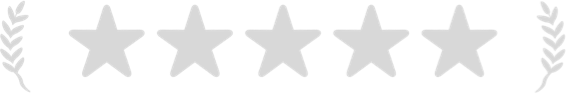
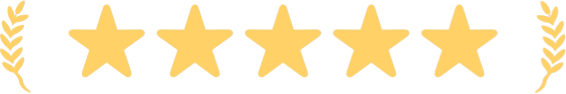
revamped landing page- copy adjustments

diff --git a/index.html b/index.html
@@ -3,14 +3,18 @@
 <head>
   <meta charset="UTF-8">
   <meta name="viewport" content="width=device-width, initial-scale=1.0">
-  <meta name="description" content="Visor: The best parental control app for YouTube. Approve channels, manage profiles, and create a safe, worry-free viewing experience for your family.">
-  <meta name="keywords" content="parent-approved YouTube channels, parental control app, YouTube parental controls, family-friendly YouTube, safe YouTube viewing, kids YouTube, manage YouTube channels, approve channels, YouTube app for parents">
+
+  <meta name="description" content="Visor makes YouTube kid-safe: your kids only see channels you approve. No Shorts, no comments, no algorithm surprises—just content you trust." />
+  <meta name="keywords" content="YouTube approved channels, YouTube for kids, parent approved YouTube, YouTube parental controls, safe YouTube app, only approved content, kids YouTube app, family YouTube app, watch approved channels only, block YouTube channels">
+  <meta property="og:title" content="Visor – YouTube, Filtered by You" />
+  <meta property="og:description" content="Create a safe YouTube experience. Approve channels, filter content, and let your kids explore only what you trust." />
+  <title>Visor | YouTube Approved Channels Only – Safe for Kids</title>
   <meta name="author" content="Visor App">
-  <!-- <meta name="apple-itunes-app" content="app-id=6744246412"> -->
+  <meta name="apple-itunes-app" content="app-id=6744246412">
   <!-- X Tags -->
+  <meta name="twitter:title" content="Visor – YouTube, Filtered by You">
+  <meta name="twitter:description" content="Approve channels and keep your kids’ YouTube experience safe, ad-free, and family-approved.">
   <meta name="twitter:card" content="summary_large_image">
-  <meta name="twitter:title" content="Visor: The Best Parental Control for YouTube">
-  <meta name="twitter:description" content="Manage YouTube channels for your family and ensure a worry-free viewing experience with Visor.">
   <meta name="twitter:image" content="assets/hero-alt.webp?v=1">
   <meta name="twitter:site" content="@YourTwitterHandle">
   <!-- Meta Tags -->
@@ -18,11 +22,8 @@
   <!-- Open Graph / Facebook Tags -->
   <meta property="og:type" content="website" />
   <meta property="og:url" content="https://gotvisor.com" />
-  <meta property="og:title" content="Visor: The Best Parental Control for YouTube" />
-  <meta property="og:description" content="Create a safe YouTube environment for your family with Visor. Approve channels, manage profiles, and take control of YouTube content today." />
   <meta property="og:image" content="assets/hero-alt.webp?v=1" />
 
-  <title>Visor: Parental Control for YouTube | Approve Channels</title>
   <link href="https://cdn.jsdelivr.net/npm/bootstrap@5.3.0-alpha3/dist/css/bootstrap.min.css" rel="stylesheet">
   <link href="https://fonts.googleapis.com/css2?family=Nunito:wght@400;700&display=swap" rel="stylesheet">
   <link rel="stylesheet" href="main.css">
@@ -38,7 +39,7 @@
   <!-- Hero Section -->
   <section class="hero-section">
     <div class="hero-content container-slim">
-      <h1>Finally, a Family Approved YouTube</h1>
+      <h1>Finally, a Kid-Safe YouTube Experience</h1>
       <p class="hero-subtitle">
         You Approve. They Explore. Everyone Wins.
       </p>
@@ -53,7 +54,7 @@
     </div>
     
     <!-- Mobile-first order -->
-    <p class="hero-paragraph mx-auto d-block d-md-none mb-3">
+    <p class="hero-paragraph mx-auto d-block d-md-none mb-3" aria-hidden="true">
       With Visor, your kids watch only the channels you approve—no surprises, no stress. Explore trusted content and relax knowing they’re watching safely.
     </p>
 
@@ -137,7 +138,7 @@
               </div>
               <h3 class="section-title">Curate with Confidence</h3>
               <p>
-                They pick what looks fun. You approve what’s actually okay. No random junk slips through. Say bye bye to unexpected ads, wierd recommendations, and mindless shorts—enjoy a curated viewing experience designed for your family’s peace of mind.
+                YouTube can feel overwhelming—but with Visor, you’re in charge. They discover what looks fun; you decide what makes the cut. No ads, no junk, just a smarter way to watch together.
               </p>
               <p><a href="/faq" target="_blank" rel="noopener noreferrer">Learn more...</a></p>
             </div>
@@ -204,6 +205,9 @@
             <h5 class="mt-3">Sarah H.</h5>
             <footer class="text-muted">Parent of Two</footer>
             <p>"This genius app made it easy to control what my kids watch. They love that they can choose their own viewing, and I feel more comfortable knowing that what they see is pre-approved."</p>
+            <p class="rating" aria-label="Rated 5 out of 5">
+              <span class="stars">★★★★★</span>
+            </p>
           </div>
         </div>
 
@@ -214,6 +218,9 @@
             <h5 class="mt-3">Mr. Jason R.</h5>
             <footer class="text-muted">School Teacher</footer>
             <p>"I sometimes recommend Visor to parents at our school. It’s a good alternative, without worrying about inappropriate content slipping through."</p>
+            <p class="rating" aria-label="Rated 5 out of 5">
+              <span class="stars">★★★★★</span>
+            </p>
           </div>
         </div>
 
@@ -224,6 +231,9 @@
             <h5 class="mt-3">Abbey G.</h5>
             <footer class="text-muted">Working Mom</footer>
             <p>"I used to constantly look over my kids shoulder. But now I can just approve videos ahead of time and let them watch safely. A huge time-saver for busy moms like me!!"</p>
+            <p class="rating" aria-label="Rated 5 out of 5">
+              <span class="stars">★★★★★</span>
+            </p>
           </div>
         </div>
 
@@ -234,6 +244,9 @@
             <h5 class="mt-3">Betty H.</h5>
             <footer class="text-muted">Grandparent</footer>
             <p>"I wanted a way to share educational videos with my grandkids. Visor made this easy to set up and I don't have to worry about weird videos popping up."</p>
+            <p class="rating" aria-label="Rated 5 out of 5">
+              <span class="stars">★★★★★</span>
+            </p>
           </div>
         </div>
 
@@ -244,6 +257,9 @@
             <h5 class="mt-3">Michelle T.</h5>
             <footer class="text-muted">Mom</footer>
             <p>"My 10-year-old is starting to ask about science and DIY content. I think Visor is a good way for her learn and grow, while I can keep an eye on what’s appropriate."</p>
+            <p class="rating" aria-label="Rated 5 out of 5">
+              <span class="stars">★★★★★</span>
+            </p>
           </div>
         </div>
 
@@ -254,6 +270,9 @@
             <h5 class="mt-3">Emily K.</h5>
             <footer class="text-muted">New Parent</footer>
             <p>"My daughter loves gaming videos, but I was worried about what she might stumble upon. With this app, I know she’s only watching content I approve."</p>
+            <p class="rating" aria-label="Rated 5 out of 5">
+              <span class="stars">★★★★★</span>
+            </p>
           </div>
         </div>
       </div>

diff --git a/story.html b/story.html
@@ -84,7 +84,8 @@
     <section class="graybackground-section mb-5 mt-5">
         <div class="container">
             <div class="row align-items-center">
-                <h2 class="text-center">Behind the Name</h2>
+                <h3 class="text-center">Behind the Name</h3>
+                <div class="small text-muted text-center mb-3">A memorable classroom moment</div>
                 <!-- Word "Visor" letter-by-letter animation -->
                 <div class="col-md-6 text-center">
                     <!-- Word "Visor" letter-by-letter animation -->
@@ -100,7 +101,7 @@
                 </div>
                 <div class="col-md-6 mt-3 thename">
                     <p>
-                        The name “Visor” was inspired during a visit to my daughter’s second-grade classroom event, “Cuddle Up and Read.” While my wife read a book, the word “Visor” came up. My daughter asked what it meant, and we explained: “A Visor is something that protects you.” That’s when I realized the name perfectly reflected what the app does—creating a layer of protection for families online.
+                        The name “Visor” was inspired during a visit to my daughter’s second-grade classroom event, “Cuddle Up and Read.” While my wife read a book, the word “Visor” came up. My daughter asked what it meant, and she explained: “A Visor is something that shields you.” That’s when we realized the name perfectly reflected what the app does—creates a layer of protection for families online.
                     </p>
                 </div>
             </div>

diff --git a/main.css b/main.css
@@ -92,7 +92,7 @@ p {
 }
 
 .hero-section p {
-    font-size: 1.2rem;
+    font-size: 1.1rem;
     color: #6c757d;
 }
 
@@ -108,7 +108,7 @@ p {
 }
 
 .hero-subtitle {
-  padding-inline: 30px;
+  /*padding-inline: 30px;*/
 }
 
 .last-paragraph {
@@ -169,6 +169,7 @@ p {
   }
 
   .hero-paragraph {
+    font-size: 1.5rem !important;
     padding-top: 12px;
     padding-bottom: 16px;
     padding-inline: 8px;
@@ -489,6 +490,12 @@ p {
     border-radius: 10px;
     margin-bottom: 40px;
 }
+
+.stars { 
+  color:#FFD166; letter-spacing:2px; 
+}
+
+.rating { margin:0; }   
 
 /* blurred bg helper */
 .blurred-image {

diff --git a/terms.html b/terms.html
@@ -15,20 +15,6 @@
     <title>Terms of Service</title>
 
     <style>
-        body {
-            font-family: 'Nunito', sans-serif; /* Matches landing page font */
-            color: #595959;
-            background-color: #F8F9FA;
-        }
-
-        a {
-            color: #FF6B6B; /* Accent color */
-            text-decoration: none; /* Remove underline */
-        }
-        a:hover {
-            text-decoration: underline;
-        }
-
         .navbar {
             position: sticky;
             top: 0;

diff --git a/privacy.html b/privacy.html
@@ -15,20 +15,6 @@
     <title>Privacy Policy</title>
 
     <style>
-        body {
-            font-family: 'Nunito', sans-serif; /* Matches landing page font */
-            color: #595959;
-            background-color: #F8F9FA;
-        }
-
-        a {
-            color: #FF6B6B; /* Accent color */
-            text-decoration: none; /* Remove underline */
-        }
-        a:hover {
-            text-decoration: underline;
-        }
-
         .navbar {
             position: sticky;
             top: 0;
